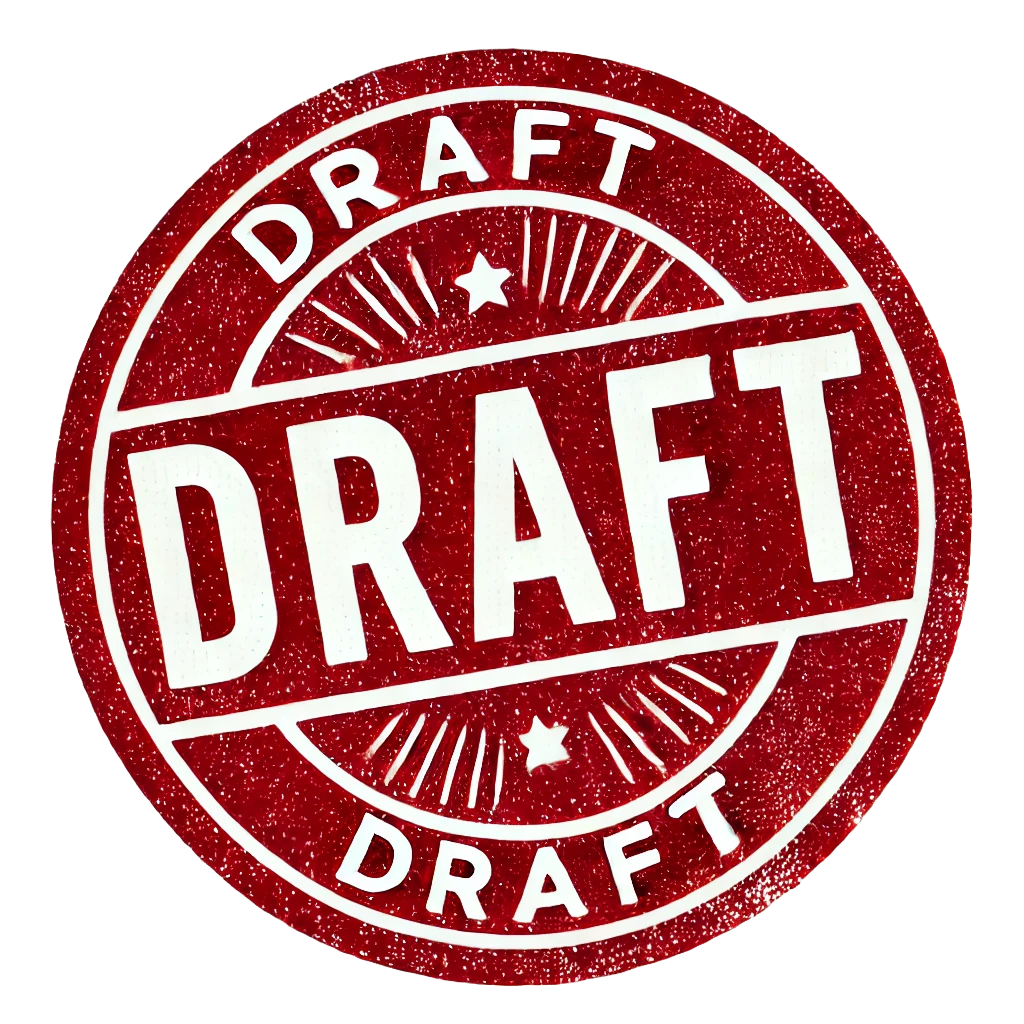
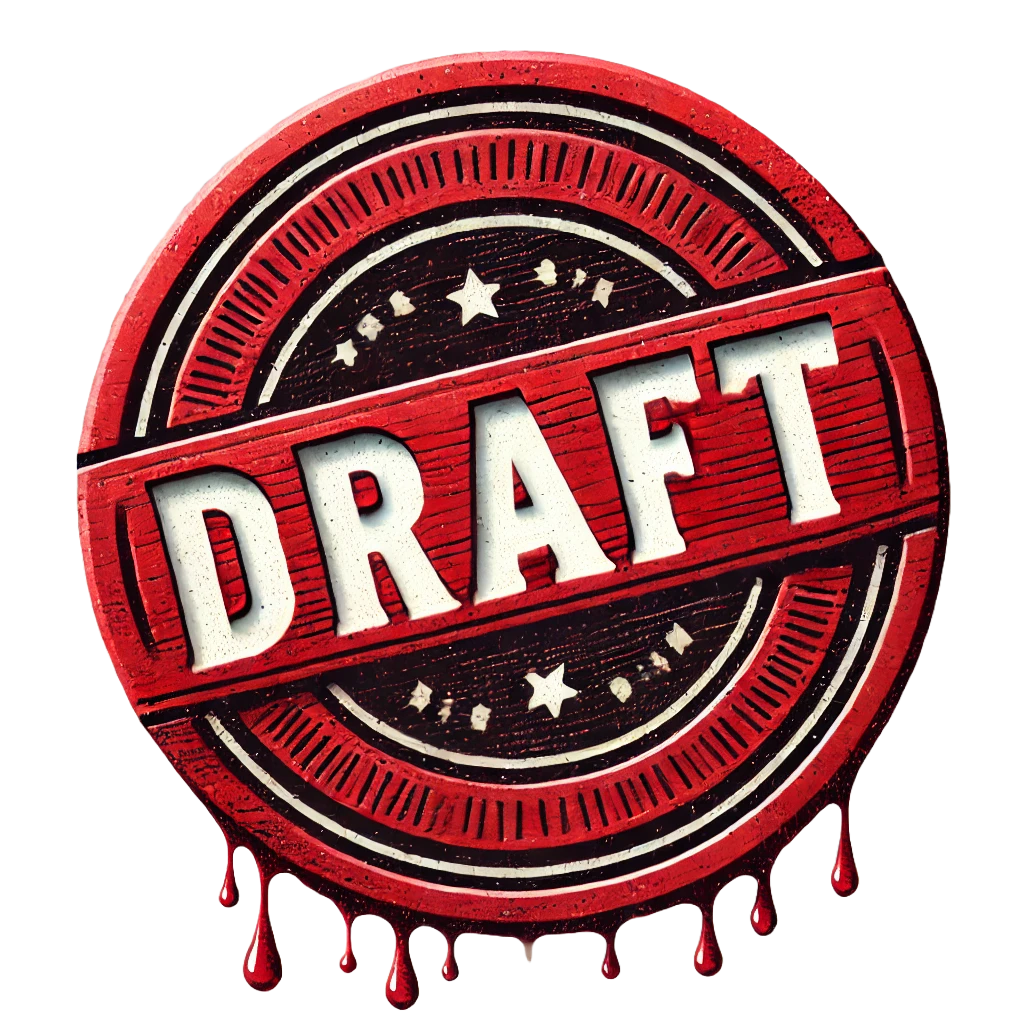
further commit jekyll now

diff --git a/assets/css/header.css b/assets/css/header.css
@@ -89,10 +89,13 @@ nav ul li a:hover {
     gap: 10px; /* Abstand zwischen Überschrift und Stempel */
 }
 
-/* Stempel direkt rechts neben dem Titel */
+/* Stempel direkt über den letzten Buchstaben des Titels */
 .draft-stamp {
-    width: 60px; /* Kleinere Größe */
+    width: 90px; /* Größere Größe */
     height: auto;
-    opacity: 0.8; /* Leichte Transparenz */
+    opacity: 0.85; /* Leichte Transparenz */
     transform: rotate(-10deg); /* Leicht gedreht für realistischen Look */
+    position: relative;
+    left: -25px; /* Schiebt es nach links, um "yen" zu überlappen */
+    top: 10px; /* Verschiebt es leicht nach unten für bessere Platzierung */
 }
